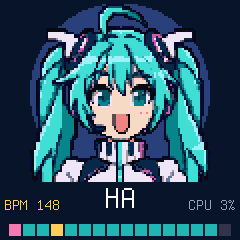
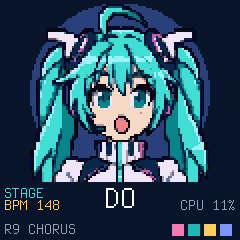
docs: manual, features, README, site steps, Hub text, card and screenshots for the four-track songwriter (0.4)
Claude-Session: https://claude.ai/code/session_013UqbmfVEx71wCc4v3RBBe2

diff --git a/site/index.html b/site/index.html
@@ -15,16 +15,17 @@ ol li{padding:7px 0}small{color:#abc1d0}.pill{font-size:.8em;color:#10202e;backg
 <body><main>
 <p class="sub">M-VAVE FM-1 · Custom firmware · {{VERSION}}</p>
 <h1>Miku<span>-FM</span></h1>
-<p>A singing synthesizer for the FM-1, growing into a pocket songwriting workstation with a tiny animated singer. Today: an editable 16-step melody sung by a formant voice, with the singer's face moving to the sound, saved on the device.</p>
+<p>A singing synthesizer for the FM-1, growing into a pocket songwriting workstation with a tiny animated singer. Today: four tracks (a sung vocal, FM chords, bass and drums), patterns, an arrangement, a mixer and 8 song slots, with the singer's face moving to the sound.</p>
 <p><span class="pill">Early version: not yet tested on a real FM-1</span></p>
 <section>
 <h2>Try it in your browser</h2>
 <p>The emulator below runs the real firmware package, unchanged.</p>
 <a class="btn" href="./fm1-emu/">Play Miku-FM in the emulator</a>
 <ol>
-<li>Press <strong>PLAY</strong>: the singer sings the demo. Press a key to sing it live and write it into the step; <strong>SELECT</strong> moves the step, <strong>REC</strong> makes a rest.</li>
-<li>Turn <strong>ALGORITHM</strong> for the step's vowel, <strong>PRESETS</strong> for the tempo, knobs 1-4 for vibrato, glide, breath and brightness; <strong>HOME</strong> shows the step grid.</li>
-<li><strong>PLAY</strong> plays and pauses, <strong>SEQ</strong> stops, <strong>SAVE</strong> (stopped) keeps melody, tempo and knobs.</li>
+<li>Press <strong>PLAY</strong>: the singer sings the demo, 「おとのはこ」, with chords, bass and drums. <strong>HOME</strong> steps through the pages: the stage, the song (rows of patterns), the pattern editor and the mixer.</li>
+<li>Pick a track with <strong>FX / SCL / ENV / LFO</strong> (vocal, chords, bass, drums); the keys play it. On the pattern page a key writes the step: <strong>SELECT</strong> moves the step, <strong>ALGORITHM</strong> chooses the mora or chord, <strong>REC</strong> clears.</li>
+<li>On the song page <strong>PRESETS</strong> picks the pattern of the row, <strong>EDIT</strong> adds a row; the mixer sets levels, pan, sounds, mute and solo.</li>
+<li><strong>GLO</strong> undoes, <strong>SEQ</strong> stops, <strong>SAVE</strong> (stopped) keeps the song; hold <strong>SAVE</strong> for the slots (load, new, demo).</li>
 </ol>
 </section>
 <section>

diff --git a/docs/MANUAL.md b/docs/MANUAL.md
@@ -1,33 +1,60 @@
 # Manual
 
-Miku-FM is a singing synthesizer for the M-VAVE FM-1, growing into a songwriting workstation (see
-[ROADMAP](ROADMAP.md)). This manual covers what the firmware does **today**.
+Miku-FM is a songwriter for the M-VAVE FM-1 with a singer on its screen: four tracks (VOCAL, CHORDS, BASS, DRUMS),
+patterns, an arrangement, a mixer and 8 song slots. This manual covers what the firmware does **today**; every control
+is in [CONTROLS](CONTROLS.md).
 
-## Writing a melody
+## How a song is built
 
-1. Turn **SELECT** to pick a step (1-16).
-2. Press a key: the voice sings that note and the step gets it. **REC** makes the step a rest instead.
-3. Turn **ALGORITHM** to choose the vowel of the step: A, I, U, E or O (a formant voice: the vowel changes the
-   resonances of the sound).
-4. Turn **PRESETS** for the tempo (40-240 BPM; each step is an eighth note, a note sounds for about 85% of it so
-   syllables separate).
-5. **PLAY** plays from the cursor and loops all 16 steps; **PLAY** again pauses, **SEQ** stops.
-6. **SAVE** (while stopped) keeps the melody, tempo and knobs in flash; they come back at the next power-on.
+- A **pattern** is one bar of 16 sixteenth steps for one track. Each track has 16 patterns.
+- The **song** is a list of up to 64 **rows**. A row names one pattern per track (or silence) and carries a section
+  label (INTRO, VERSE, CHORUS, BRIDGE, OUTRO). Rows play one after another; reusing a pattern in several rows is the point.
+- The **mixer** has a level, mute, solo and preset per track, plus swing, tempo and master for the song.
+- The vocal sings **moras** (a, i, u, e, o, ka, ki, ... n): each vocal step carries its mora, the vowel follows from it.
 
-You can also play the keys live, stopped or during playback. Holding one key and pressing another glides between
-them. KNOB 1-4 set vibrato depth, portamento time, breath and brightness. OCT− / OCT+ move the voice down or up
-by octaves (up to two each way); the written notes stay as they are.
+At power-on the firmware loads the slot you last used. The first time (or if that slot is empty) it plays the demo
+「おとのはこ」: an intro, a verse and a chorus with chords, bass and drums.
 
-**HOME** switches between STAGE (the singer, her mouth following the sound, the syllable, tempo, a step strip and the
-audio CPU load) and EDIT (the step grid and knob values). While the melody is the demo, STAGE shows its syllables;
-otherwise it shows the vowel letter.
+## Playing the demo
 
-The first time, a demo melody is loaded.
+1. **PLAY** starts the song from the cursor row; **SEQ** or **PLAY** again stops it.
+2. **HOME** moves through STAGE (the singer), SONG, PATTERN and MIXER.
+3. On SONG, **SELECT** picks a row, **PLAY** starts there.
+
+## Writing a song
+
+1. **SONG**: press **EDIT** to add a row; pick the column with **FX / SCL / ENV / LFO** (the track) and turn **PRESETS** to
+   choose the pattern for that track in that row (-- = silent). **ALGORITHM** labels the section.
+2. **PATTERN**: choose the track, **SELECT** the step, play a key to write it. VOCAL: the key is the note, **ALGORITHM**
+   chooses the mora, **KNOB 1** the length. CHORDS: the key is the root, **ALGORITHM** the quality, **KNOB 2** how it
+   plays (block, arps, strum). BASS: the key is the note, **ALGORITHM** adds accent or slide. DRUMS: keys 1-6 switch kick,
+   snare, clap, hats and perc on and off at the step, keys 7-12 their accents. **REC** clears the step.
+3. **PLAY** on PATTERN loops the row you are editing. **GLO** undoes (eight steps back). **ARP** copies steps,
+   **ARP + EDIT** pastes them; **EDIT** alone duplicates the pattern so you can vary it.
+4. **MIXER**: levels, pan, presets (the chord, bass and drum sounds), mute, solo, swing, tempo, master.
+5. **SAVE** (tap, stopped) keeps the song in the current slot. Hold SAVE for the slot menu (load, new song, demo).
+
+Edits while the song plays are allowed: single steps change at once; changes to the row list or undo pause the sequencer for
+a few milliseconds. The firmware asks for a second press before dropping unsaved changes.
+
+## STAGE
+
+The singer's mouth follows the voice; her face blinks and smiles on PLAY. Below: the syllable that is sounding (or the
+one at the cursor), BPM (and the key octave), the audio CPU load, the row and section, and four dots that light when
+the vocal, chords, bass and drums sound. The vocal knobs (vibrato, portamento, breath, brightness) are KNOB 1-4 here and
+are saved in the song.
 
 ## Saving and other firmwares
 
-Miku-FM keeps its melody in Dinghy's settings sector of the FM-1's flash. It does not read other firmwares'
-projects or samples. See the README for what saving does to other firmwares' data, and back up before installing.
+Songs live in Dinghy's 8 slots of the FM-1's flash (one song is 4,476 bytes, CRC-checked: a damaged slot is refused,
+never half-loaded); the current slot number and the pan settings live in Dinghy's settings sector. Miku-FM does not read other
+firmwares' projects or samples. See the README for what saving does to other firmwares' data, and back up before
+installing. Saving erases flash, so it only happens while stopped and silent.
+
+## Limits of this version
+
+No song renaming on the device (a new song is "NEW SONG"). Pan is a device setting, not part of the song file. Lyrics, other
+vocal consonants, MIDI sync and WAV export from the device are not there yet (see [ROADMAP](ROADMAP.md)).
 
 ## When something goes wrong
 

diff --git a/docs/FEATURES.md b/docs/FEATURES.md
@@ -4,18 +4,23 @@ Status words: **emulator** = checked in fm1-emu on the real package; **hardware*
 
 | Feature | Status |
 |---|---|
-| 16-step monophonic melody (eighth notes), note per key, rests | emulator |
+| Song model: 4 tracks, 16 patterns of 16 steps each, 64-row arrangement with sections, swing, undo (8 steps) | emulator |
+| Sequencer in the audio interrupt: sample-accurate, tempo change during play | emulator |
 | Integer formant voice (fvoice): five vowels, vibrato, portamento, breath, brightness; no float | emulator |
-| Live keys with legato, KNOB 1-4 (vibrato, portamento, breath, brightness), saved with the melody | emulator |
-| STAGE page: singer face (mouth follows the voice, blink), syllable, step strip, CPU% | emulator |
-| EDIT page: step grid and knob values (HOME switches) | emulator |
-| OCT− / OCT+ transpose the voice by octaves | emulator |
-| Voice level: +3.5 dB app gain, defaults matching the approved demo (breath 10, brightness 100, portamento 50 ms) | emulator |
-| Tempo 40–240 BPM | emulator |
-| Play from cursor, pause, stop | emulator |
-| Save melody and tempo to flash, reload at power-on | emulator (flash dump and restore) |
+| Vocal sings moras (70-entry kana table), moraic n holds the vowel | emulator |
+| FM chords (8 presets, 4 voices, block/arp/strum modes), FM bass (4 presets, accent, slide), drum kit (6 sounds, 2 kits) | emulator |
+| Mixer: level, pan, preset, mute, solo per track; swing, tempo, master | emulator |
+| STAGE page: singer face, syllable, tempo, CPU%, row and section, track activity dots | emulator |
+| SONG, PATTERN (piano roll, drum grid), MIXER pages; one control map ([CONTROLS](CONTROLS.md)) | emulator |
+| Live keys play the current track's instrument; keys write steps on PATTERN | emulator |
+| Copy / paste steps, duplicate pattern, insert / duplicate / delete rows, undo | emulator |
+| 8 song slots (MKS2, CRC-checked), load / new / demo with an unsaved-changes guard | emulator (flash dump and restore) |
+| Demo song 「おとのはこ」 (intro, verse, chorus, outro) | emulator |
+| Host render of the demo through the same engine code (`song_render`) | host |
 | Own identity FM-1_39XXYYZZ, own store magic | built |
 | Dinghy platform: USB/TRS MIDI, USB audio, USB rescue, update loader | from Dinghy; not checked with Miku-FM |
 
-Host engine (MIT, `shared/`, `firmware/`; not on the device yet): four tracks (vocal formant voice, FM chords, FM
-bass, drums), 96 PPQN event queue, MIK1 song file with CRC, WAV render. See [ROADMAP](ROADMAP.md).
+Not there yet: song rename on the device, per-song pan, lyrics editing, consonants, MIDI sync, WAV export from the device.
+
+Older host prototype (MIT, `shared/`, `firmware/sequencer`, `firmware/audio/band`, `firmware/audio/vocal`): 96 PPQN event queue,
+MIK1 song file; superseded by the MKS2 song format on the device. See [ROADMAP](ROADMAP.md).

diff --git a/README.md b/README.md
@@ -2,7 +2,7 @@
 
 An experimental **four-track, retro virtual-idol-inspired songwriting workstation** for the M-VAVE FM-1.
 
-**Status: native FM-1 firmware (Dinghy) with an editable 16-step melody sung by a formant voice, with an animated singer; emulator-tested; not yet tested on hardware.** The host engine below is a separate MIT-licensed prototype.
+**Status: native FM-1 firmware (Dinghy), version 0.4: a four-track songwriter (sung vocal, FM chords, bass, drums; patterns, arrangement, mixer, 8 song slots) with an animated singer; emulator-tested; not yet tested on hardware.** The host engine below is a separate MIT-licensed prototype.
 
 ## Build and render an editable eight-bar song
 
@@ -27,6 +27,8 @@ The demo composes four patterns in C: vowel-melody, three-note FM-like chords, F
 - `firmware/audio/vocal/` — independently written five-vowel formant synthesizer
 - `firmware/audio/band/` — original polyphonic chord FM, monophonic FM bass, electronic drums
 - `tools/demo.c` — independent host harness rendering an eight-bar song
+
+The 0.4 firmware (`native/dinghy.c`) is built from newer modules: `firmware/song/` (song model, MKS2 file format, sequencer, mora table, demo song), `firmware/audio/fmband/` (FM chords, bass, drums, mixer), `firmware/audio/fvoice/` (the voice) and `firmware/app/engine.c` (the dispatch that runs in the audio interrupt). `tools/song_render.c` renders the demo through the same engine on the host: `./build/firmware/app/song_render otonohako.wav`.
 - `tests/` — unit, serialization, and host-demo smoke tests
 
 The current instruments use simplified synthesis and no effects, and there is no claim of measured audio or CPU quality on FM-1 hardware. See `docs/RESEARCH.md`, `docs/SONG_FORMAT.md`.
@@ -35,7 +37,7 @@ Host-engine code is MIT licensed; the firmware package is GPL-3.0-only (see Lice
 
 ## Other firmwares' data
 
-Miku-FM does not read other firmwares' projects or samples. It stores its melody in Dinghy's settings sector (FM-1 flash 0xFC000), which other Felucca-family firmwares also use, so saving there replaces their settings. Back up first.
+Miku-FM does not read other firmwares' projects or samples. It stores its songs in Dinghy's 8 slots (FM-1 flash 0x97000...) and a small settings struct in the settings sector (0xFC000), which other Felucca-family firmwares also use, so saving there replaces their data. Back up first.
 
 ## Licence
 
